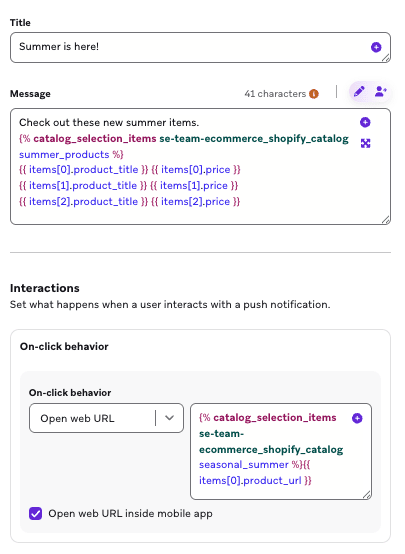
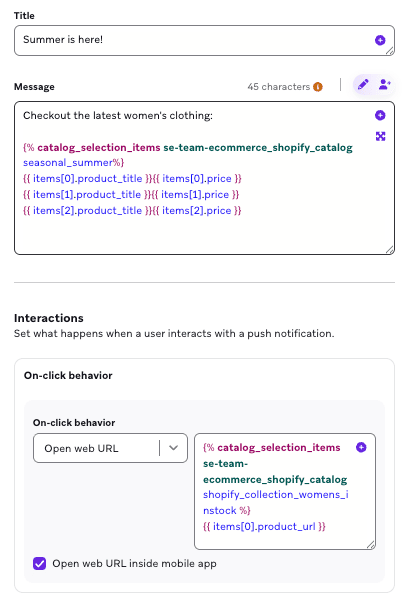
[BD-6169] Fix Shopify metafields use case (#13459)

diff --git a/_docs/_partners/ecommerce/shopify/shopify_catalogs.md b/_docs/_partners/ecommerce/shopify/shopify_catalogs.md
@@ -204,7 +204,7 @@ Braze syncs up to 250 variants of each Shopify product into your catalog. Varian
 {% endalert %}
 
 {% tabs %}
-{% tab Product tabs %}
+{% tab Product tags %}
 
 Use product tags to personalize messages based on how your products are categorized in Shopify. For example, you can send a promotion featuring all products tagged "Summer Sale" through a [catalog selection]({{site.baseurl}}/catalog_selections/), or build a segment of users who purchased products tagged "Premium." 
 
@@ -341,7 +341,7 @@ Each synced metafield becomes a separate column in your catalog, with data type 
 
 ### Personalization
 
-1. Create a [catalog selection]({{site.baseurl}}/catalog_selections/) that filters for metafields that include the respective value, such as `summer`.
+1. Create a [catalog selection]({{site.baseurl}}/catalog_selections/) that filters for metafields that include the respective value.
 
 ![A catalog selection that filters for metafields that have the attribute summer.]({% image_buster /assets/img/Shopify/metafields_selection.png %})
 
@@ -350,7 +350,7 @@ Each synced metafield becomes a separate column in your catalog, with data type 
 
 {% raw %}
 ```liquid
-{% catalog_selection_items se-team-ecommerce_shopify_catalog sustainable_products %}
+{% catalog_selection_items se-team-ecommerce_shopify_catalog seasonal_summer %}
 
 {% if items[0] == blank %}
 {% abort_message('Catalog selection returned no items') %}
@@ -393,12 +393,12 @@ Each synced metafield becomes a separate column in your catalog, with data type 
 ```
 {% endraw %}
 
-Or, if you want to mention specific products with a `summer` metafield value in a push notification, you can use the **Add Personalization** tool and specify your catalog items.
+Or, if you want to mention specific products with a specific metafield value in a push notification, you can use the **Add Personalization** tool and specify your catalog items.
 
 {% raw %}
 ```liquid
-Checkout the latest women's clothing:
-    {% catalog_selection_items se-team-ecommerce_shopify_catalog summer_products %}
+Check out the latest summer products:
+    {% catalog_selection_items se-team-ecommerce_shopify_catalog seasonal_summer %}
     {{ items[0].product_title}}{{items[0].price}}
     {{ items[1].product_title}}{{items[1].price}}
     {{ items[2].product_title}}{{items[2].price}}
@@ -412,18 +412,17 @@ Checkout the latest women's clothing:
 Use [Segment Extensions]({{site.baseurl}}/user_guide/audience/segments/segment_extension/) to build segments based on users who interacted with a product metafield. For example, to find users who triggered an ecommerce event with a product whose metafield array contains a specific value, use this query:
 
 {% raw %}
+```sql
 -- -----------------------------------------------------------------------------
--- Array-type metafield values (all time)
--- -----------------------------------------------------------------------------
--- When the metafield is stored as a JSON array in catalog field_value (e.g.
--- '["organic","vegan"]' or a list-type Shopify metafield serialized to JSON),
+-- When the metafield is stored as a JSON array in catalog field_value (for example,
+-- '["winter","summer"]' or a list-type Shopify metafield serialized to JSON),
 -- use ARRAY_CONTAINS like product_tags. Cast the element you search for to
 -- VARIANT so types match the parsed array elements.
 -- -----------------------------------------------------------------------------
 
 -- Description:
 -- Fetches users who triggered the ecommerce event with a product whose
--- metafield array contains a specific value (e.g. segment on "accessories").
+-- metafield array contains a specific value (for example, segment on "seasonal").
 -- For a date range, add events.time >= $start_date AND events.time <= $end_date.
 -- For first/last triggered, reuse the CTE pattern from Template 3 with this
 -- ARRAY_CONTAINS predicate instead of items.field_value = '<metafield_value>'.
@@ -452,7 +451,7 @@ WHERE
 If you want to segment customers who have placed an order with the specific product metafields, use one of the following SQL Segment Extension templates (all time, specific time period, first or last triggered an event).
 
 {% raw %}
-```json
+```sql
 -- =============================================================================
 -- Segment Extension: Metafields × Ecommerce Events — Example SQL Templates
 -- =============================================================================
